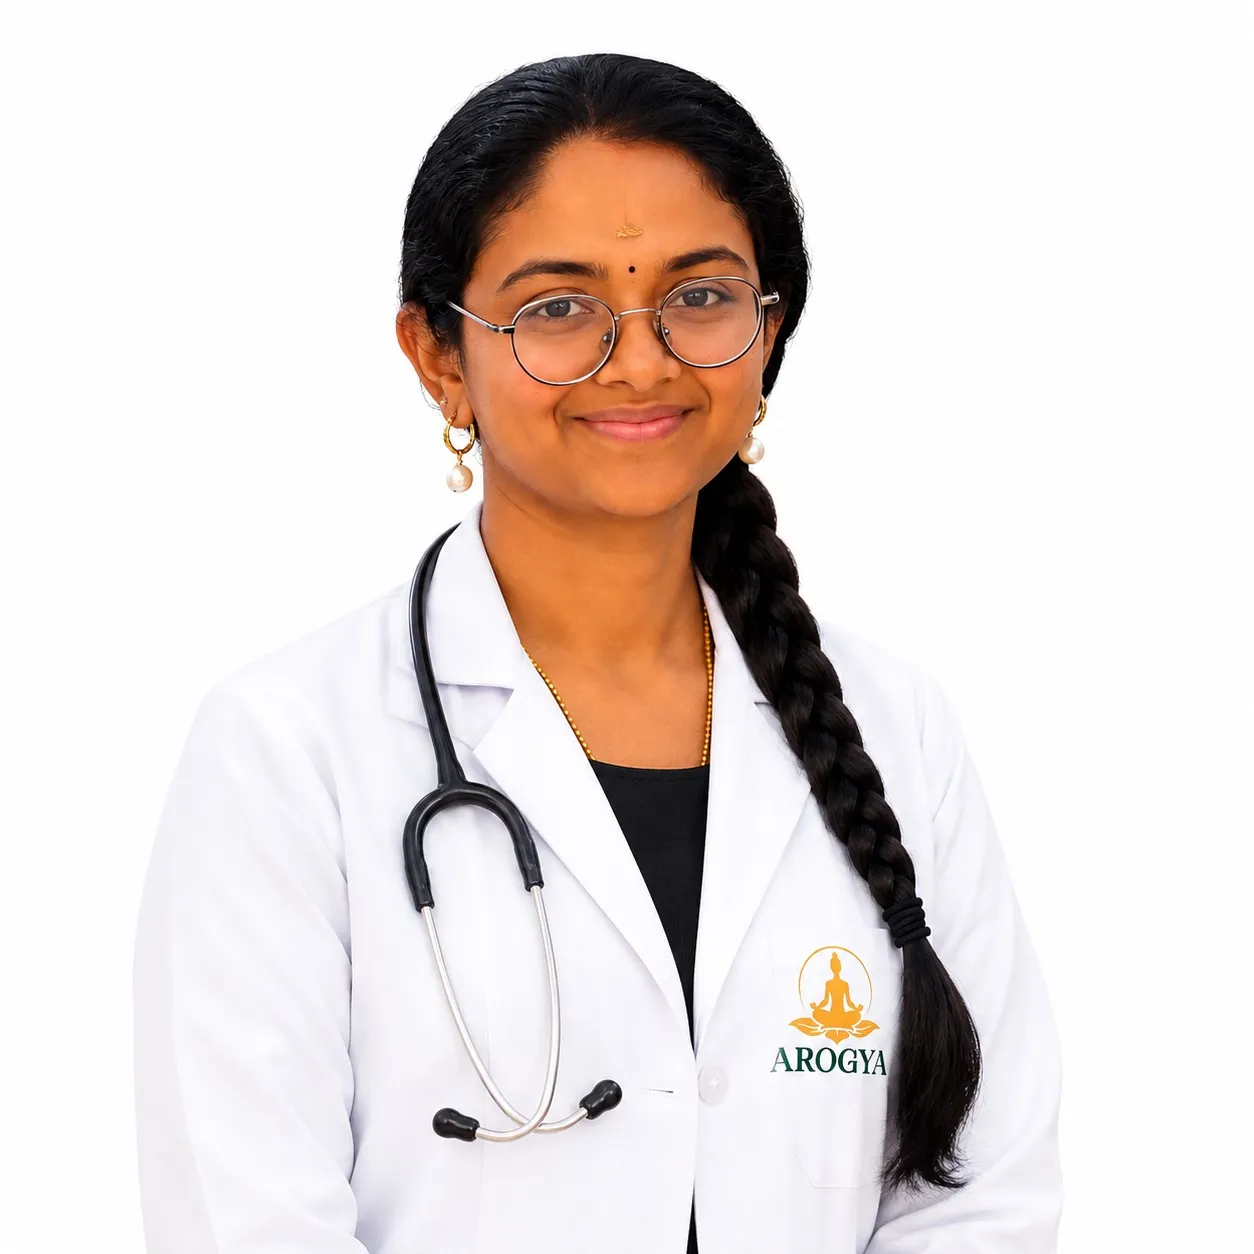
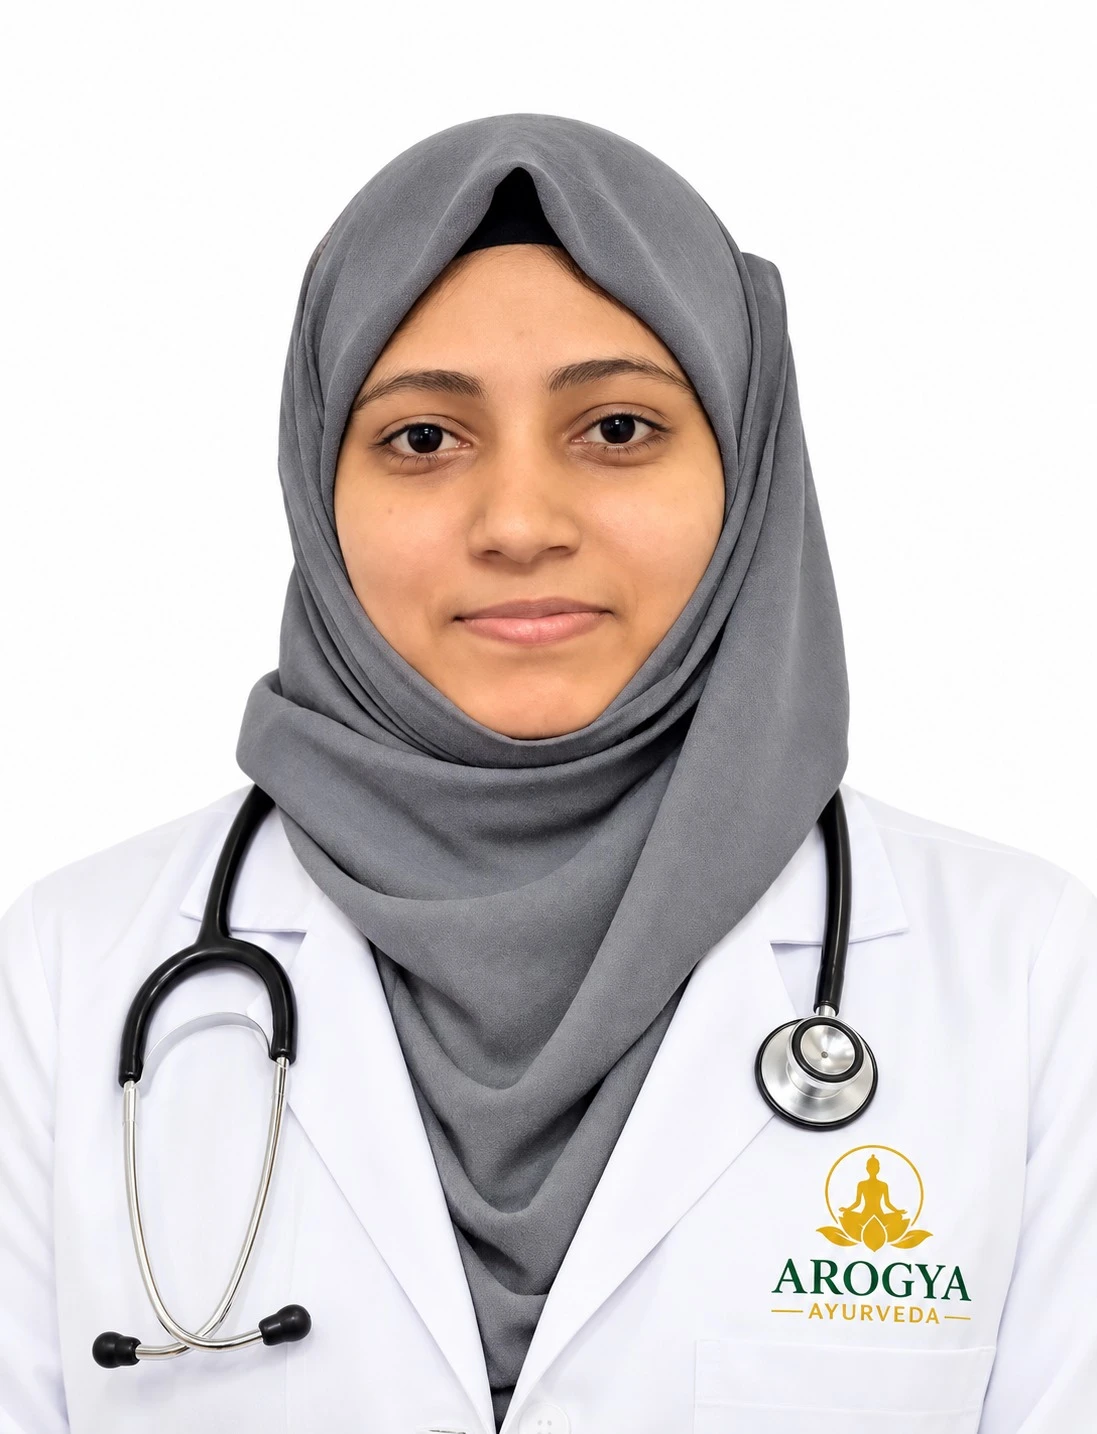
feat: update doctor profile to Dr. Salwa Sanajil and replace insurance partners with reimbursement assistance section

diff --git a/src/components/InsuranceSection.tsx b/src/components/InsuranceSection.tsx
@@ -1,0 +1,89 @@
+"use client";
+import React from 'react';
+import { motion } from 'framer-motion';
+import { FileText, ShieldCheck, ClipboardCheck, Info } from 'lucide-react';
+
+export function InsuranceSection() {
+  return (
+    <section className="py-20 lg:py-28 bg-[#F4F1E8]/70 text-text-dark relative overflow-hidden border-y border-border/40">
+      {/* Subtle background glow */}
+      <div className="absolute inset-0 pointer-events-none opacity-40">
+        <div className="absolute -top-24 left-1/2 -translate-x-1/2 w-[700px] h-[350px] bg-forest-soft/30 rounded-full blur-3xl"></div>
+      </div>
+
+      <div className="max-w-5xl mx-auto px-4 sm:px-6 lg:px-8 relative z-10">
+        <motion.div 
+          initial={{ opacity: 0, y: 20 }}
+          whileInView={{ opacity: 1, y: 0 }}
+          viewport={{ once: true }}
+          transition={{ duration: 0.7 }}
+          className="bg-white/90 backdrop-blur-sm rounded-3xl p-8 sm:p-12 lg:p-14 shadow-xl border border-forest-soft/40 relative overflow-hidden"
+        >
+          {/* Top Gold Ornament */}
+          <div className="flex items-center justify-center gap-3 mb-6">
+            <span className="h-[1px] w-8 bg-gold/50"></span>
+            <div className="flex items-center gap-2 px-3.5 py-1 rounded-full bg-forest-light border border-forest-soft/60">
+              <ShieldCheck className="w-4 h-4 text-forest-primary" />
+              <span className="text-[11px] font-semibold uppercase tracking-[0.2em] text-forest-primary">
+                Patient Support
+              </span>
+            </div>
+            <span className="h-[1px] w-8 bg-gold/50"></span>
+          </div>
+
+          {/* Heading */}
+          <h2 className="text-3xl sm:text-4xl md:text-5xl font-serif text-forest-dark text-center leading-tight mb-6">
+            Insurance Reimbursement Assistance
+          </h2>
+
+          {/* Core statement */}
+          <p className="text-lg sm:text-xl text-forest-dark/90 font-normal leading-relaxed text-center max-w-3xl mx-auto mb-10">
+            Arogya Ayurveda Healthcare provides invoices and relevant medical documentation to support eligible patients with insurance reimbursement claims.
+          </p>
+
+          {/* 3 Step Features */}
+          <div className="grid grid-cols-1 md:grid-cols-3 gap-6 mb-10">
+            <div className="bg-[#FAF8F3] rounded-2xl p-6 border border-border/60 flex flex-col items-center text-center">
+              <div className="w-12 h-12 rounded-full bg-forest-light flex items-center justify-center mb-4 text-forest-primary">
+                <FileText className="w-5 h-5" />
+              </div>
+              <h3 className="font-serif text-lg text-forest-dark mb-1">Itemized Invoices</h3>
+              <p className="text-xs sm:text-sm text-text-muted leading-relaxed">
+                Official invoices detailing treatments and therapies for claim submission.
+              </p>
+            </div>
+
+            <div className="bg-[#FAF8F3] rounded-2xl p-6 border border-border/60 flex flex-col items-center text-center">
+              <div className="w-12 h-12 rounded-full bg-forest-light flex items-center justify-center mb-4 text-forest-primary">
+                <ClipboardCheck className="w-5 h-5" />
+              </div>
+              <h3 className="font-serif text-lg text-forest-dark mb-1">Medical Reports</h3>
+              <p className="text-xs sm:text-sm text-text-muted leading-relaxed">
+                Licensed practitioner consultation notes, prescriptions, and diagnosis summaries.
+              </p>
+            </div>
+
+            <div className="bg-[#FAF8F3] rounded-2xl p-6 border border-border/60 flex flex-col items-center text-center">
+              <div className="w-12 h-12 rounded-full bg-forest-light flex items-center justify-center mb-4 text-forest-primary">
+                <ShieldCheck className="w-5 h-5" />
+              </div>
+              <h3 className="font-serif text-lg text-forest-dark mb-1">Claim Guidance</h3>
+              <p className="text-xs sm:text-sm text-text-muted leading-relaxed">
+                Assistance with claim form documentation to ensure smooth processing.
+              </p>
+            </div>
+          </div>
+
+          {/* Disclaimer Banner */}
+          <div className="bg-forest-light/60 rounded-2xl p-4 sm:p-5 border border-forest-soft flex items-start sm:items-center gap-3.5 text-left">
+            <Info className="w-5 h-5 text-forest-primary flex-shrink-0 mt-0.5 sm:mt-0" />
+            <p className="text-xs sm:text-sm text-forest-dark/80 font-light leading-relaxed">
+              <strong className="font-medium text-forest-dark">Please note: </strong>
+              Reimbursement is subject to your insurance policy, coverage eligibility, exclusions and insurer approval.
+            </p>
+          </div>
+        </motion.div>
+      </div>
+    </section>
+  );
+}

diff --git a/src/components/DoctorProfile.tsx b/src/components/DoctorProfile.tsx
@@ -35,8 +35,8 @@ export function DoctorProfile() {
             {/* Elegant Image Container */}
             <div className="relative w-full max-w-[420px] aspect-[4/5] rounded-tl-[4rem] rounded-br-[4rem] rounded-tr-3xl rounded-bl-3xl overflow-hidden shadow-2xl">
               <Image 
-                src="/doctor.webp" 
-                alt="Dr. M. Parvathy Nithya Kalyani" 
+                src="/doctor-salwa.webp" 
+                alt="Dr. Salwa Sanajil" 
                 fill 
                 className="object-cover object-top"
                 sizes="(max-width: 1024px) 100vw, 50vw"
@@ -57,7 +57,7 @@ export function DoctorProfile() {
             className="flex flex-col text-center lg:text-left"
           >
             <h2 className="text-4xl md:text-5xl lg:text-5xl font-serif text-forest-dark mb-4">
-              Dr. M. Parvathy Nithya Kalyani
+              Dr. Salwa Sanajil
             </h2>
             
             <p className="text-gold tracking-[0.2em] uppercase text-xs md:text-sm font-semibold mb-8">

diff --git a/src/app/page.tsx b/src/app/page.tsx
@@ -6,7 +6,7 @@ import { Treatments } from '@/components/Treatments';
 import { WhyArogya } from '@/components/about/WhyArogya';
 import { ProgramsSection } from '@/components/ProgramsSection';
 import { DoctorProfile } from '@/components/DoctorProfile';
-import { PartnersSection } from '@/components/PartnersSection';
+import { InsuranceSection } from '@/components/InsuranceSection';
 import { FinalCTA } from '@/components/FinalCTA';
 
 export default function Home() {
@@ -19,7 +19,7 @@ export default function Home() {
       <WhyArogya />
       <ProgramsSection />
       <DoctorProfile />
-      <PartnersSection />
+      <InsuranceSection />
       <FinalCTA />
     </main>
   );
